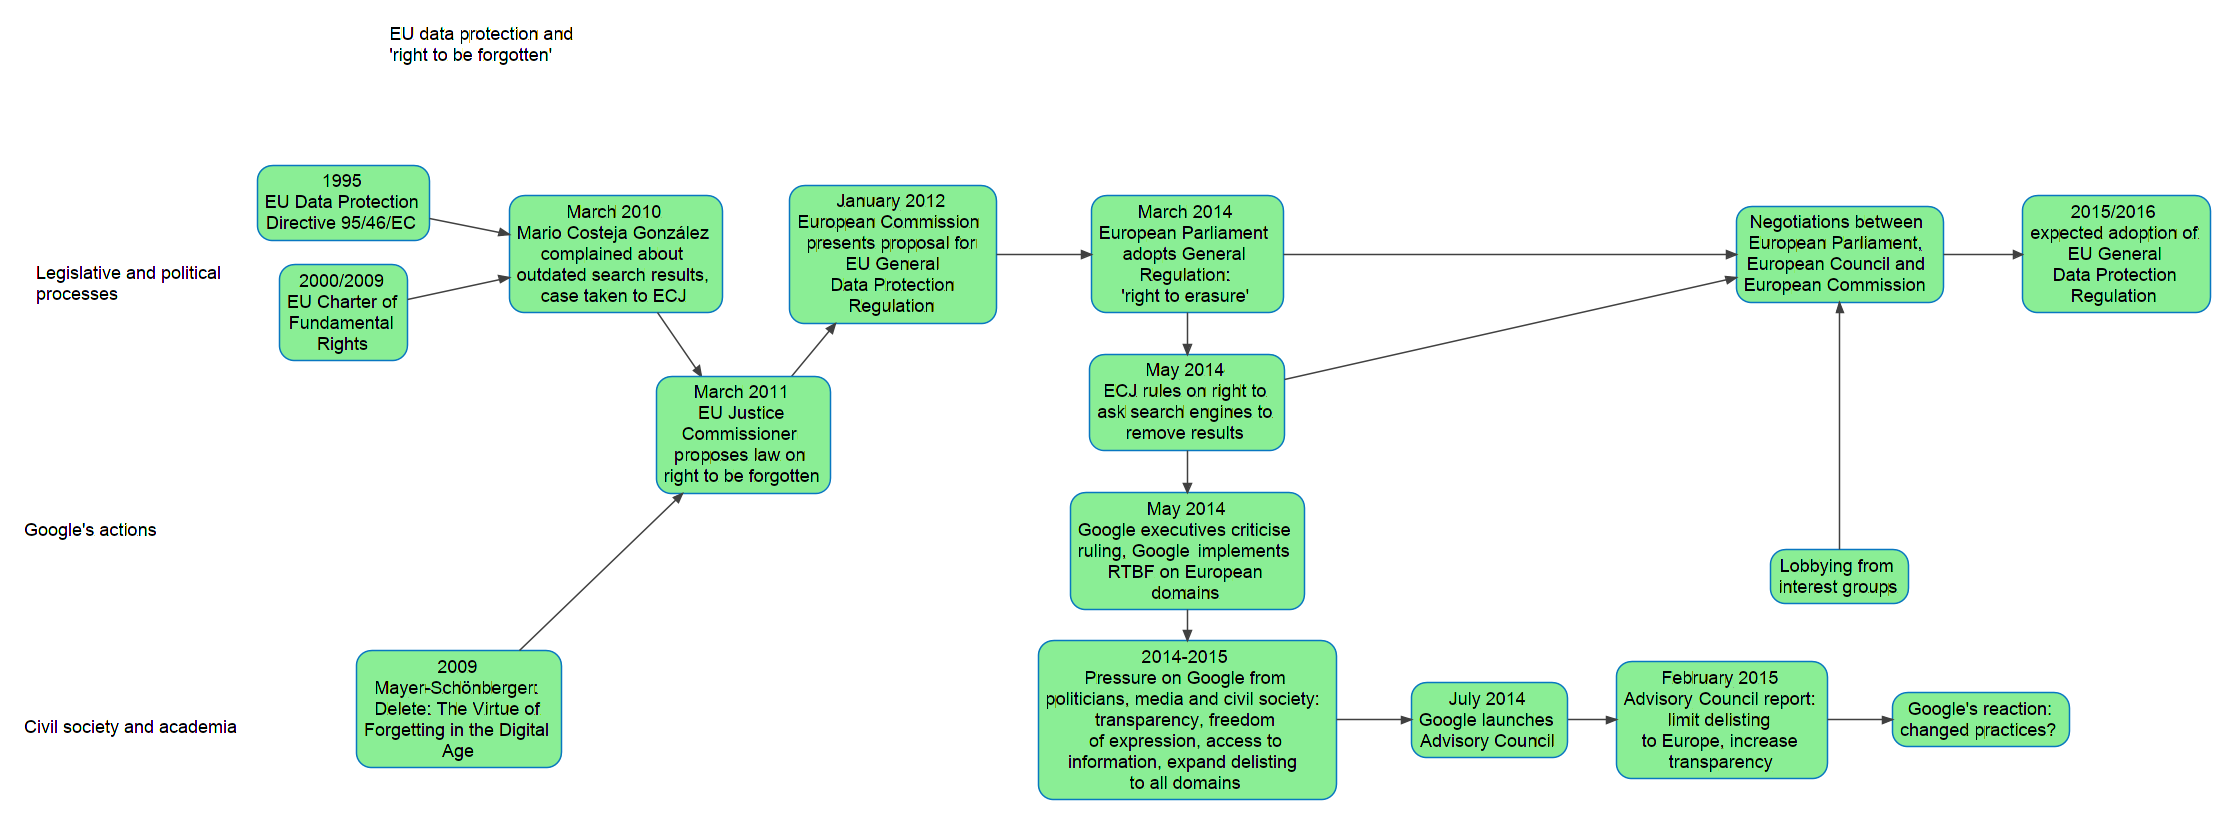
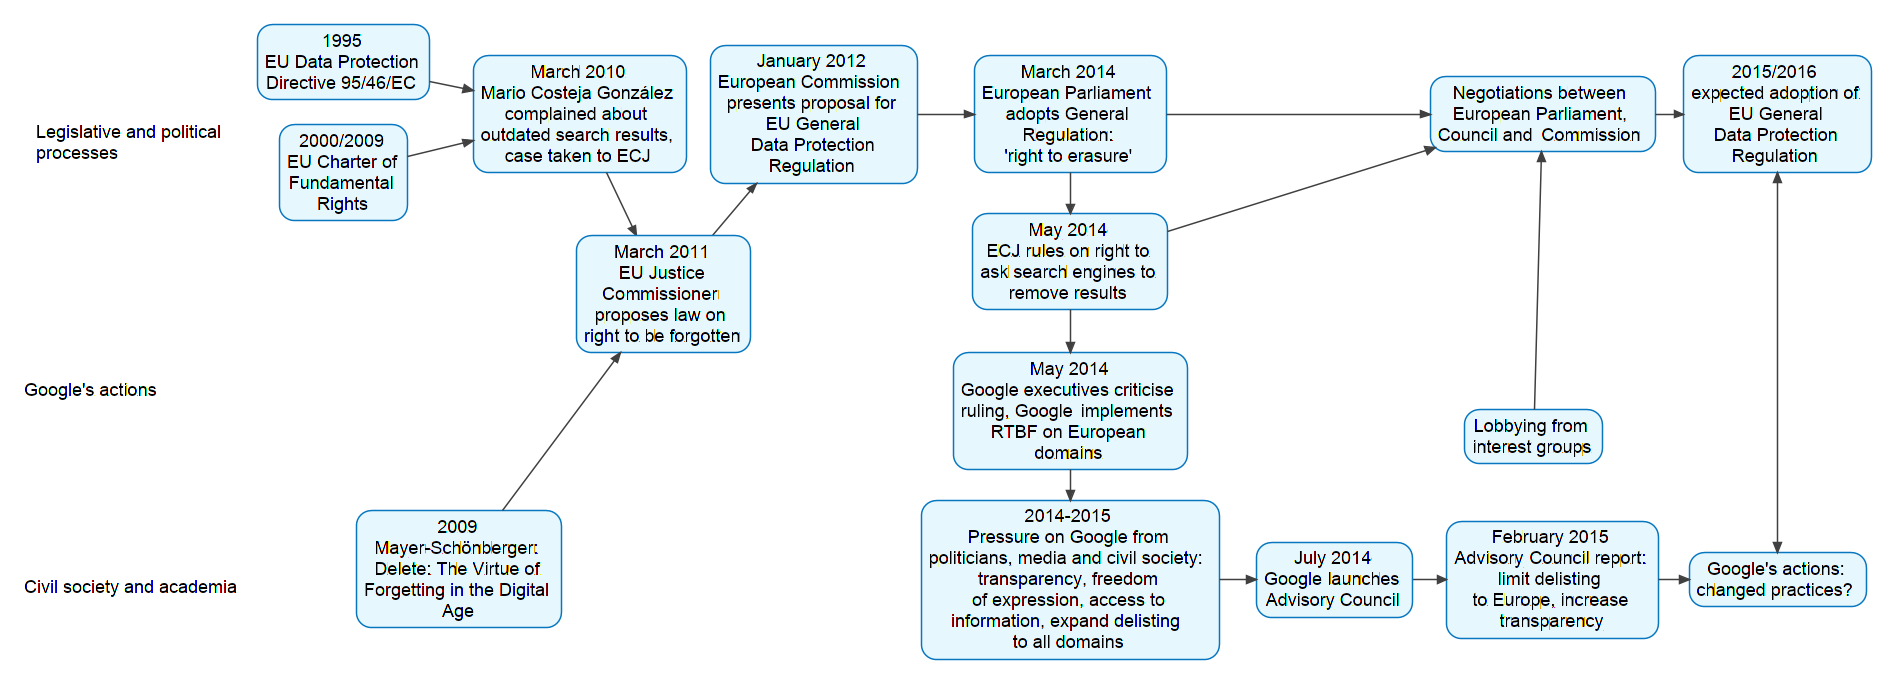
Figure

diff --git a/privacy-sequence.vue b/privacy-sequence.vue
@@ -1,14 +1,14 @@
 <!-- Tufts VUE 3.2.2 concept-map (privacy-sequence.vue) 2015-05-22 -->
 <!-- Tufts VUE: http://vue.tufts.edu/ -->
 <!-- Do Not Remove: VUE mapping @version(1.1) jar:file:/usr/share/java/vue/vue.jar!/tufts/vue/resources/lw_mapping_1_1.xml -->
-<!-- Do Not Remove: Saved date Fri May 22 15:25:13 EEST 2015 by mmin on platform Linux 4.0.3-1-ARCH in JVM 1.7.0_79-b14 -->
+<!-- Do Not Remove: Saved date Fri May 22 15:28:24 EEST 2015 by mmin on platform Linux 4.0.3-1-ARCH in JVM 1.7.0_79-b14 -->
 <!-- Do Not Remove: Saving version @(#)VUE: built May 23 2013 at 2146 by tomadm on Linux 2.6.18-348.2.1.el5 i386 JVM 1.7.0_21-b11(bits=32) -->
 <?xml version="1.0" encoding="US-ASCII"?>
 <LW-MAP xmlns:xsi="http://www.w3.org/2001/XMLSchema-instance"
     xsi:noNamespaceSchemaLocation="none" ID="0"
     label="privacy-sequence.vue" created="1432205393662" x="0.0" y="0.0"
     width="1.4E-45" height="1.4E-45" strokeWidth="0.0" autoSized="false">
-    <resource referenceCreated="1432297514062" size="30353"
+    <resource referenceCreated="1432297704189" size="28931"
         spec="/home/mmin/utu/reactive-sequences/scenarios-as-reactive-sequences/privacy-sequence.vue"
         type="1" xsi:type="URLResource">
         <title>privacy-sequence.vue</title>
@@ -23,7 +23,7 @@
         label="May 2014&#xa;ECJ rules on right to&#xa;ask search engines to&#xa;remove results"
         layerID="1" created="1432205420063" x="208.0" y="293.0"
         width="130.0" height="64.0" strokeWidth="1.0" autoSized="true" xsi:type="node">
-        <fillColor>#8AEE95</fillColor>
+        <fillColor>#E6F7FD</fillColor>
         <strokeColor>#0877C0</strokeColor>
         <textColor>#000000</textColor>
         <font>Arial-plain-12</font>
@@ -34,7 +34,7 @@
         label="1995&#xa;EU Data Protection&#xa;Directive 95/46/EC"
         layerID="1" created="1432205664715" x="-269.125" y="167.0"
         width="115.0" height="50.0" strokeWidth="1.0" autoSized="true" xsi:type="node">
-        <fillColor>#8AEE95</fillColor>
+        <fillColor>#E6F7FD</fillColor>
         <strokeColor>#0877C0</strokeColor>
         <textColor>#000000</textColor>
         <font>Arial-plain-12</font>
@@ -45,7 +45,7 @@
         label="February 2015&#xa;Advisory Council report:&#xa;limit delisting&#xa;to Europe, increase&#xa;transparency"
         layerID="1" created="1432205915284" x="524.0" y="497.91412"
         width="141.0" height="78.0" strokeWidth="1.0" autoSized="true" xsi:type="node">
-        <fillColor>#8AEE95</fillColor>
+        <fillColor>#E6F7FD</fillColor>
         <strokeColor>#0877C0</strokeColor>
         <textColor>#000000</textColor>
         <font>Arial-plain-12</font>
@@ -56,7 +56,7 @@
         label="January 2012&#xa;European Commission&#xa;presents proposal for&#xa;EU General&#xa;Data Protection&#xa;Regulation"
         layerID="1" created="1432207147465" x="33.0" y="180.5"
         width="138.0" height="92.0" strokeWidth="1.0" autoSized="true" xsi:type="node">
-        <fillColor>#8AEE95</fillColor>
+        <fillColor>#E6F7FD</fillColor>
         <strokeColor>#0877C0</strokeColor>
         <textColor>#000000</textColor>
         <font>Arial-plain-12</font>
@@ -65,43 +65,14 @@
     </child>
     <child ID="15"
         label="2015/2016&#xa;expected adoption of&#xa;EU General&#xa;Data Protection&#xa;Regulation"
-        layerID="1" created="1432207252615" x="795.0" y="187.5"
+        layerID="1" created="1432207252615" x="682.0" y="187.5"
         width="125.0" height="78.0" strokeWidth="1.0" autoSized="true" xsi:type="node">
-        <fillColor>#8AEE95</fillColor>
+        <fillColor>#E6F7FD</fillColor>
         <strokeColor>#0877C0</strokeColor>
         <textColor>#000000</textColor>
         <font>Arial-plain-12</font>
         <URIString>http://vue.tufts.edu/rdf/resource/7634deb27f00000146ae6cee4b908df6</URIString>
         <shape arcwidth="20.0" archeight="20.0" xsi:type="roundRect"/>
-    </child>
-    <child ID="16"
-        label="EU data protection and 'right to be forgotten'"
-        layerID="1" created="1432207291246" x="-205.0" y="73.0"
-        width="150.0" height="44.0" strokeWidth="0.0" autoSized="false" xsi:type="text">
-        <strokeColor>#404040</strokeColor>
-        <textColor>#000000</textColor>
-        <font>SansSerif-plain-14</font>
-        <URIString>http://vue.tufts.edu/rdf/resource/7635308e7f00000146ae6ceec60ed8bc</URIString>
-        <richText>&lt;html&gt;
-  &lt;head color="#000000" style="color: #000000"&gt;
-    &lt;style type="text/css"&gt;
-      &lt;!--
-        body { margin-bottom: 0px; margin-left: 0px; font-family: Arial; margin-top: 0px; font-size: 12; margin-right: 0px; color: #000000 }
-        ol { margin-left: 30; font-family: Arial; margin-top: 6; font-size: 12; vertical-align: middle; list-style-position: outside }
-        p { margin-bottom: 0; margin-left: 0; margin-top: 0; margin-right: 0; color: #000000 }
-        ul { margin-left: 30; font-family: Arial; margin-top: 6; font-size: 12; vertical-align: middle; list-style-position: outside }
-      --&gt;
-    &lt;/style&gt;
-    
-  &lt;/head&gt;
-  &lt;body&gt;
-    &lt;p color="#000000" style="color: #000000"&gt;
-      EU data protection and 'right to be forgotten'
-    &lt;/p&gt;
-  &lt;/body&gt;
-&lt;/html&gt;
-</richText>
-        <label>EU data protection and 'right to be forgotten'</label>
     </child>
     <child ID="18" layerID="1" created="1432207324789" x="33.900352"
         y="272.0" width="30.312382" height="36.217163" strokeWidth="1.0"
@@ -119,7 +90,7 @@
         label="March 2014&#xa;European Parliament&#xa;adopts General&#xa;Regulation:&#xa;'right to erasure'"
         layerID="1" created="1432207398312" x="209.0" y="187.5"
         width="128.0" height="78.0" strokeWidth="1.0" autoSized="true" xsi:type="node">
-        <fillColor>#8AEE95</fillColor>
+        <fillColor>#E6F7FD</fillColor>
         <strokeColor>#0877C0</strokeColor>
         <textColor>#000000</textColor>
         <font>Arial-plain-12</font>
@@ -130,7 +101,7 @@
         label="March 2010&#xa;Mario Costeja Gonz&#xe1;lez&#xa;complained about&#xa;outdated search results,&#xa;case taken to ECJ"
         layerID="1" created="1432207498432" x="-125.0" y="187.5"
         width="142.0" height="78.0" strokeWidth="1.0" autoSized="true" xsi:type="node">
-        <fillColor>#8AEE95</fillColor>
+        <fillColor>#E6F7FD</fillColor>
         <strokeColor>#0877C0</strokeColor>
         <textColor>#000000</textColor>
         <font>Arial-plain-12</font>
@@ -162,37 +133,37 @@
         <ID2 xsi:type="node">6</ID2>
     </child>
     <child ID="28"
-        label="Negotiations between&#xa;European Parliament,&#xa;European Council and&#xa;European Commission"
-        layerID="1" created="1432208059888" x="604.0" y="194.5"
-        width="138.0" height="64.0" strokeWidth="1.0" autoSized="true" xsi:type="node">
-        <fillColor>#8AEE95</fillColor>
+        label="Negotiations between&#xa;European Parliament,&#xa;Council and Commission"
+        layerID="1" created="1432208059888" x="513.0" y="201.5"
+        width="150.0" height="50.0" strokeWidth="1.0" autoSized="true" xsi:type="node">
+        <fillColor>#E6F7FD</fillColor>
         <strokeColor>#0877C0</strokeColor>
         <textColor>#000000</textColor>
         <font>Arial-plain-12</font>
         <URIString>http://vue.tufts.edu/rdf/resource/76412dd17f00000146ae6cee7a9b641c</URIString>
         <shape arcwidth="20.0" archeight="20.0" xsi:type="roundRect"/>
     </child>
-    <child ID="29" layerID="1" created="1432208087676" x="741.5"
-        y="226.0" width="54.0" height="1.0" strokeWidth="1.0"
+    <child ID="29" layerID="1" created="1432208087676" x="662.5"
+        y="226.0" width="20.0" height="1.0" strokeWidth="1.0"
         autoSized="false" controlCount="0" arrowState="2" xsi:type="link">
         <strokeColor>#404040</strokeColor>
         <textColor>#404040</textColor>
         <font>Arial-plain-11</font>
         <URIString>http://vue.tufts.edu/rdf/resource/76412dd17f00000146ae6cee99bc9974</URIString>
-        <point1 x="742.0" y="226.5"/>
-        <point2 x="795.0" y="226.5"/>
+        <point1 x="663.0" y="226.5"/>
+        <point2 x="682.0" y="226.5"/>
         <ID1 xsi:type="node">28</ID1>
         <ID2 xsi:type="node">15</ID2>
     </child>
     <child ID="44" layerID="1" created="1432273471066" x="336.5"
-        y="226.0" width="268.0" height="1.0" strokeWidth="1.0"
+        y="226.0" width="177.0" height="1.0" strokeWidth="1.0"
         autoSized="false" controlCount="0" arrowState="2" xsi:type="link">
         <strokeColor>#404040</strokeColor>
         <textColor>#404040</textColor>
         <font>Arial-plain-11</font>
         <URIString>http://vue.tufts.edu/rdf/resource/7a28e35e7f00000146ae6ceedae77ad2</URIString>
         <point1 x="337.0" y="226.5"/>
-        <point2 x="604.0" y="226.5"/>
+        <point2 x="513.0" y="226.5"/>
         <ID1 xsi:type="node">20</ID1>
         <ID2 xsi:type="node">28</ID2>
     </child>
@@ -200,7 +171,7 @@
         label="March 2011&#xa;EU Justice&#xa;Commissioner&#xa;proposes law on&#xa;right to be forgotten"
         layerID="1" created="1432273580941" x="-56.0606" y="307.71716"
         width="116.0" height="78.0" strokeWidth="1.0" autoSized="true" xsi:type="node">
-        <fillColor>#8AEE95</fillColor>
+        <fillColor>#E6F7FD</fillColor>
         <strokeColor>#0877C0</strokeColor>
         <textColor>#000000</textColor>
         <font>Arial-plain-12</font>
@@ -279,7 +250,7 @@
         label="2014-2015&#xa;Pressure on Google from&#xa;politicians, media and civil society:&#xa;transparency, freedom&#xa;of expression, access to&#xa;information, expand delisting&#xa;to all domains"
         layerID="1" created="1432276102600" x="173.5" y="483.91412"
         width="199.0" height="106.0" strokeWidth="1.0" autoSized="true" xsi:type="node">
-        <fillColor>#8AEE95</fillColor>
+        <fillColor>#E6F7FD</fillColor>
         <strokeColor>#0877C0</strokeColor>
         <textColor>#000000</textColor>
         <font>Arial-plain-12</font>
@@ -290,7 +261,7 @@
         label="2009&#xa;Mayer-Sch&#xf6;nberger:&#xa;Delete: The Virtue of&#xa;Forgetting in the Digital&#xa;Age"
         layerID="1" created="1432276482708" x="-202.88637" y="490.91412"
         width="137.0" height="78.0" strokeWidth="1.0" autoSized="true" xsi:type="node">
-        <fillColor>#8AEE95</fillColor>
+        <fillColor>#E6F7FD</fillColor>
         <strokeColor>#0877C0</strokeColor>
         <textColor>#000000</textColor>
         <font>Arial-plain-12</font>
@@ -341,7 +312,7 @@
         label="May 2014&#xa;Google executives criticise&#xa;ruling, Google implements&#xa;RTBF on European&#xa;domains"
         layerID="1" created="1432276945035" x="195.0" y="385.5"
         width="156.0" height="78.0" strokeWidth="1.0" autoSized="true" xsi:type="node">
-        <fillColor>#8AEE95</fillColor>
+        <fillColor>#E6F7FD</fillColor>
         <strokeColor>#0877C0</strokeColor>
         <textColor>#000000</textColor>
         <font>Arial-plain-12</font>
@@ -388,7 +359,7 @@
         label="2000/2009&#xa;EU Charter of&#xa;Fundamental&#xa;Rights"
         layerID="1" created="1432277220710" x="-254.125" y="233.5"
         width="85.0" height="64.0" strokeWidth="1.0" autoSized="true" xsi:type="node">
-        <fillColor>#8AEE95</fillColor>
+        <fillColor>#E6F7FD</fillColor>
         <strokeColor>#0877C0</strokeColor>
         <textColor>#000000</textColor>
         <font>Arial-plain-12</font>
@@ -422,24 +393,24 @@
         <ID2 xsi:type="node">46</ID2>
     </child>
     <child ID="75" label="Lobbying from&#xa;interest groups" layerID="1"
-        created="1432278352974" x="627.0" y="423.5" width="92.0"
+        created="1432278352974" x="536.0" y="423.5" width="92.0"
         height="36.0" strokeWidth="1.0" autoSized="true" xsi:type="node">
-        <fillColor>#8AEE95</fillColor>
+        <fillColor>#E6F7FD</fillColor>
         <strokeColor>#0877C0</strokeColor>
         <textColor>#000000</textColor>
         <font>Arial-plain-12</font>
         <URIString>http://vue.tufts.edu/rdf/resource/7a73434a7f00000146ae6ceee45fdc16</URIString>
         <shape arcwidth="20.0" archeight="20.0" xsi:type="roundRect"/>
     </child>
-    <child ID="76" layerID="1" created="1432278376709" x="672.5"
-        y="258.0" width="1.0" height="166.0" strokeWidth="1.0"
+    <child ID="76" layerID="1" created="1432278376709" x="582.0023"
+        y="251.0" width="5.799988" height="173.0" strokeWidth="1.0"
         autoSized="false" controlCount="0" arrowState="2" xsi:type="link">
         <strokeColor>#404040</strokeColor>
         <textColor>#404040</textColor>
         <font>Arial-plain-11</font>
         <URIString>http://vue.tufts.edu/rdf/resource/7a73434b7f00000146ae6ceee70cba02</URIString>
-        <point1 x="673.0" y="423.5"/>
-        <point2 x="673.0" y="258.5"/>
+        <point1 x="582.5023" y="423.5"/>
+        <point2 x="587.3023" y="251.5"/>
         <ID1 xsi:type="node">75</ID1>
         <ID2 xsi:type="node">28</ID2>
     </child>
@@ -447,7 +418,7 @@
         label="July 2014&#xa;Google launches&#xa;Advisory Council"
         layerID="1" created="1432289538239" x="397.25" y="511.91412"
         width="104.0" height="50.0" strokeWidth="1.0" autoSized="true" xsi:type="node">
-        <fillColor>#8AEE95</fillColor>
+        <fillColor>#E6F7FD</fillColor>
         <strokeColor>#0877C0</strokeColor>
         <textColor>#000000</textColor>
         <font>Arial-plain-12</font>
@@ -467,21 +438,22 @@
         <ID2 xsi:type="node">82</ID2>
     </child>
     <child ID="84" layerID="1" created="1432289898399" x="337.5"
-        y="242.99127" width="267.0" height="66.5025" strokeWidth="1.0"
-        autoSized="false" controlCount="0" arrowState="2" xsi:type="link">
+        y="248.38902" width="179.40051" height="56.785553"
+        strokeWidth="1.0" autoSized="false" controlCount="0"
+        arrowState="2" xsi:type="link">
         <strokeColor>#404040</strokeColor>
         <textColor>#404040</textColor>
         <font>Arial-plain-11</font>
         <URIString>http://vue.tufts.edu/rdf/resource/7b22d9ae7f0000017804b6d4afc66542</URIString>
-        <point1 x="338.0" y="308.99377"/>
-        <point2 x="604.0" y="243.49127"/>
+        <point1 x="338.0" y="304.6746"/>
+        <point2 x="516.4005" y="248.88904"/>
         <ID1 xsi:type="node">6</ID1>
         <ID2 xsi:type="node">28</ID2>
     </child>
     <child ID="85" label="Google's actions:&#xa;changed practices?"
-        layerID="1" created="1432290364515" x="708.25" y="518.9141"
+        layerID="1" created="1432290364515" x="685.5" y="518.9141"
         width="118.0" height="36.0" strokeWidth="1.0" autoSized="true" xsi:type="node">
-        <fillColor>#8AEE95</fillColor>
+        <fillColor>#E6F7FD</fillColor>
         <strokeColor>#0877C0</strokeColor>
         <textColor>#000000</textColor>
         <font>Arial-plain-12</font>
@@ -489,26 +461,26 @@
         <shape arcwidth="20.0" archeight="20.0" xsi:type="roundRect"/>
     </child>
     <child ID="86" layerID="1" created="1432290373799" x="664.5"
-        y="536.4141" width="44.25" height="1.0" strokeWidth="1.0"
+        y="536.4141" width="21.5" height="1.0" strokeWidth="1.0"
         autoSized="false" controlCount="0" arrowState="2" xsi:type="link">
         <strokeColor>#404040</strokeColor>
         <textColor>#404040</textColor>
         <font>Arial-plain-11</font>
         <URIString>http://vue.tufts.edu/rdf/resource/7b2902147f0000017804b6d406fce05a</URIString>
         <point1 x="665.0" y="536.9141"/>
-        <point2 x="708.25" y="536.9141"/>
+        <point2 x="685.5" y="536.9141"/>
         <ID1 xsi:type="node">11</ID1>
         <ID2 xsi:type="node">85</ID2>
     </child>
-    <child ID="91" layerID="1" created="1432297407013" x="771.9834"
-        y="265.0" width="74.677734" height="254.41406" strokeWidth="1.0"
+    <child ID="91" layerID="1" created="1432297407013" x="744.0"
+        y="265.0" width="1.0" height="254.41412" strokeWidth="1.0"
         autoSized="false" controlCount="0" arrowState="3" xsi:type="link">
         <strokeColor>#404040</strokeColor>
         <textColor>#404040</textColor>
         <font>Arial-plain-11</font>
         <URIString>http://vue.tufts.edu/rdf/resource/7b942d397f0000017804b6d4e94cc315</URIString>
-        <point1 x="846.16113" y="265.5"/>
-        <point2 x="772.4834" y="518.91406"/>
+        <point1 x="744.5" y="265.5"/>
+        <point2 x="744.5" y="518.9141"/>
         <ID1 xsi:type="node">15</ID1>
         <ID2 xsi:type="node">85</ID2>
     </child>
